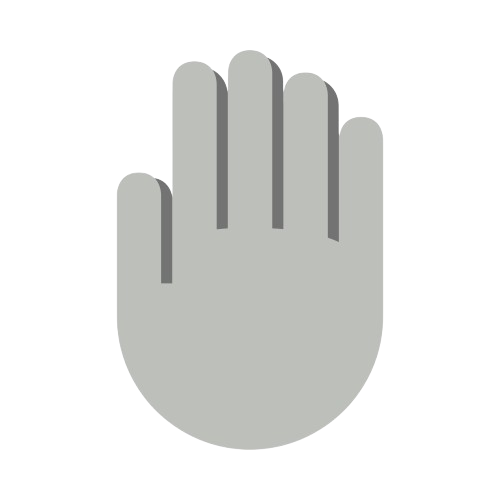
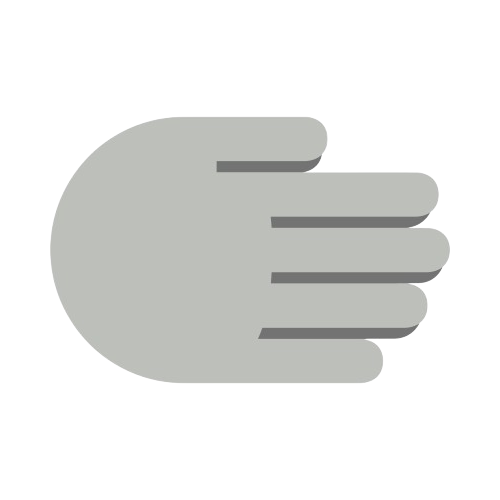
update switch hand

Changed region(s): [[0.09, 0.09, 0.9, 0.9]]

diff --git a/Controll/blockControll.js b/Controll/blockControll.js
@@ -82,14 +82,15 @@ export function settingCtrl() {
     if (showAllCtrl) {
         midiPortCtrl();
         sampleCtrl();
-        handCtrl();
+
     } else {
         ModeCtrl();
         capoCtrl();
-    }
 
-    if (!showAllCtrl) {
-        if (modeNum == 1) {
+        if (modeNum == 0) {
+            handCtrl();
+        }
+        else if (modeNum == 1) {
             reloadCtrl();
             touchCtrl();
             playCtrl();
@@ -97,13 +98,14 @@ export function settingCtrl() {
         }
         else if (modeNum == 2) {
             reloadCtrl();
+            handCtrl();
         }
     }
 
 }
 
 // Mode 控制區域
-export function ModeCtrl() {
+function ModeCtrl() {
     const Area = {
         x: 20,
         y: 10,
@@ -146,7 +148,7 @@ export function ModeCtrl() {
 }
 
 // MIDI 控制區域
-export function midiPortCtrl() {
+function midiPortCtrl() {
     const Area = {
         x: 25,
         y: 10,
@@ -183,7 +185,7 @@ export function midiPortCtrl() {
 }
 
 // SoundFont 控制區域
-export async function sampleCtrl() {
+async function sampleCtrl() {
     // 區域大小設定
     const Area = {
         x: uiApp.screen.width / 2 - uiApp.screen.width * 0.15,
@@ -249,28 +251,32 @@ export async function sampleCtrl() {
 }
 
 // hand 控制區域
-export function handCtrl() {
+export function handCtrl(ctrl) {
+
+    if (ctrl == 'switch') isSwitch = !isSwitch;
+
     const Area = {
         x: 25,
-        y: uiApp.screen.height - 20 - uiApp.screen.height * 0.08,
-        w: uiApp.screen.width * 0.25,
-        h: uiApp.screen.height * 0.08
+        y: uiApp.screen.height / 2 - uiApp.screen.width * 0.25 / 2,
+        w: uiApp.screen.height * 0.08,
+        h: uiApp.screen.width * 0.25
     };
 
     // 背景區域
     const bg = new PIXI.Graphics()
         .roundRect(Area.x, Area.y, Area.w, Area.h, 50)
         .fill(0x434343)
-        .roundRect(Area.x + Area.w / 2 - 40, Area.y + 5, 4, Area.h - 10)
+        .roundRect(Area.x + 5, Area.y + Area.h / 2 - 40, Area.w - 10, 4)
         .fill(0x656765)
-        .roundRect(Area.x + Area.w / 2 + 40, Area.y + 5, 4, Area.h - 10)
+        .roundRect(Area.x + 5, Area.y + Area.h / 2 + 40, Area.w - 10, 4)
         .fill(0x656765)
     uiApp.stage.addChild(bg);
 
     const swBtn = new PIXI.Sprite(IMGs['switch']);
     swBtn.hitArea = new PIXI.Rectangle(Area.x + Area.w / 2 - 40, Area.y, 80, Area.h); // 限定互動範圍（可調整）
-    swBtn.x = Area.x + Area.w / 2 - 25;
-    swBtn.y = Area.y + 5;
+    swBtn.rotation = Math.PI / -2;
+    swBtn.x = Area.x + 5;
+    swBtn.y = Area.y + Area.h / 2 + 25;
     swBtn.width = 50;
     swBtn.height = 50;
 
@@ -289,51 +295,36 @@ export function handCtrl() {
     const left = new PIXI.Text({
         text: '左',
         style: isSwitch ? textStyle['soundCtrl'] : textStyle['gesture'],
-        x: Area.x + 30,
-        y: Area.y + Area.h / 2
+        x: Area.x + Area.w / 2,
+        y: Area.y + 30
     });
     left.anchor.set(0.5);
     uiApp.stage.addChild(left);
 
     const LHand = new PIXI.Sprite(IMGs['left_hand']);
-    LHand.x = left.x + 20;
-    LHand.y = Area.y + 5;
+    LHand.x = Area.x + 5;
+    LHand.y = left.y + 20;
     LHand.width = 50;
     LHand.height = 50;
-
-    // 互動
-    LHand.hitArea = new PIXI.Rectangle(Area.x, Area.y, Area.w / 2 - 40, Area.h); // 限定互動範圍（可調整）
-    LHand.interactive = true;
-    LHand.buttonMode = true;
-
-    // 點擊事件
-    LHand.on('pointerdown', () => { console.log("✅ left hand 控制區被點擊！"); });
     uiApp.stage.addChild(LHand);
 
     // right hand
     const right = new PIXI.Text({
         text: '右',
         style: isSwitch ? textStyle['gesture'] : textStyle['soundCtrl'],
-        x: Area.x + Area.w - 30,
-        y: Area.y + Area.h / 2
+        x: Area.x + Area.w / 2,
+        y: Area.y + Area.h - 30
     });
     right.anchor.set(0.5);
     uiApp.stage.addChild(right);
 
     const RHand = new PIXI.Sprite(IMGs['right_hand']);
-    RHand.x = right.x - 70;
-    RHand.y = Area.y + 5;
+    RHand.x = Area.x + 5;
+    RHand.y = right.y - 70;
     RHand.width = 50;
     RHand.height = 50;
-
-    // 互動
-    RHand.hitArea = new PIXI.Rectangle(Area.x + Area.w / 2 + 40, Area.y, Area.w / 2 - 40, Area.h); // 限定互動範圍（可調整）
-    RHand.interactive = true;
-    RHand.buttonMode = true;
-
-    // 點擊事件
-    RHand.on('pointerdown', () => { console.log("✅ right hand 控制區被點擊！"); });
     uiApp.stage.addChild(RHand);
+
 }
 
 // reload 控制區域

diff --git a/MediaPipe.js b/MediaPipe.js
@@ -1,9 +1,10 @@
 import { HandLandmarker, PoseLandmarker, FilesetResolver } from "https://cdn.jsdelivr.net/npm/@mediapipe/tasks-vision@latest";
-import { handData, poseData,video } from './main.js';
-import { isSwitch } from "./Controll/blockControll.js";
+import { handData, poseData, video } from './main.js';
+import { handCtrl, isSwitch } from "./Controll/blockControll.js";
 
 // 全域變數：用來儲存模型實例
 let handLandmarker, poseLandmarker;
+let switchH = false
 
 // 初始化 MediaPipe 手部與姿勢偵測模型
 export async function setupMediaPipe() {
@@ -40,7 +41,7 @@ export async function setupMediaPipe() {
 export async function detectHand() {
     if (!handLandmarker) return;
 
-    let data = handLandmarker.detectForVideo(video, performance.now(),  { width: video.videoWidth, height: video.videoHeight });
+    let data = handLandmarker.detectForVideo(video, performance.now(), { width: video.videoWidth, height: video.videoHeight });
 
     const handPoints = data.landmarks;
     const handednesses = data.handednesses;
@@ -55,8 +56,15 @@ export async function detectHand() {
         }
         handData[left_or_right] = points;
     }
-
-    if (isSwitch) {[handData['Left'], handData['Right']] = [handData['Right'], handData['Left']]}
+    if (handData['Left'].length > 0) {
+        if (!switchH && video.videoWidth - handData['Left'][9][0] < 50) {
+            handCtrl('switch')
+            switchH = true
+        } else if (switchH && video.videoWidth - handData['Left'][9][0] > 50) {
+            switchH = false
+        }
+    }
+    if (isSwitch) { [handData['Left'], handData['Right']] = [handData['Right'], handData['Left']] }
 }
 
 // 偵測身體關鍵點並繪製圖像，同時更新 poseData

diff --git a/main.js b/main.js
@@ -1,4 +1,4 @@
-import { settingCtrl, loadImg, modeNum, playNum, } from "./Controll/blockControll.js";
+import { settingCtrl, loadImg, modeNum, playNum, handCtrl, } from "./Controll/blockControll.js";
 import { chordCtrl, pinchCtrl, pluckCtrl, strumCtrl, wavingCtrl } from "./Controll/musicControll.js";
 import { setupMediaPipe, detectHand, detectPose } from "./MediaPipe.js";
 import { initMIDIPort, buildGuitarChord } from "./sound.js";
